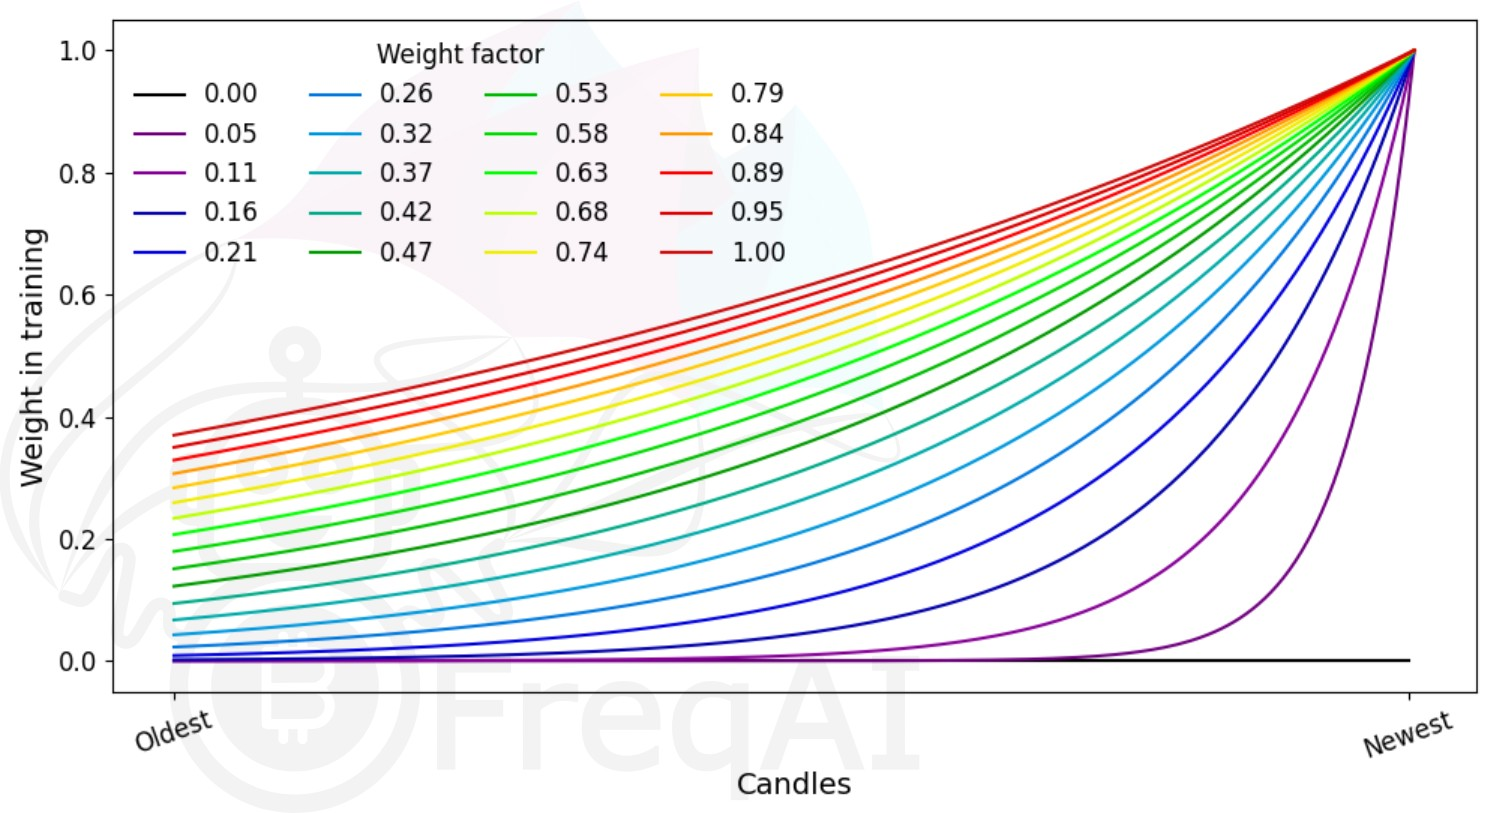
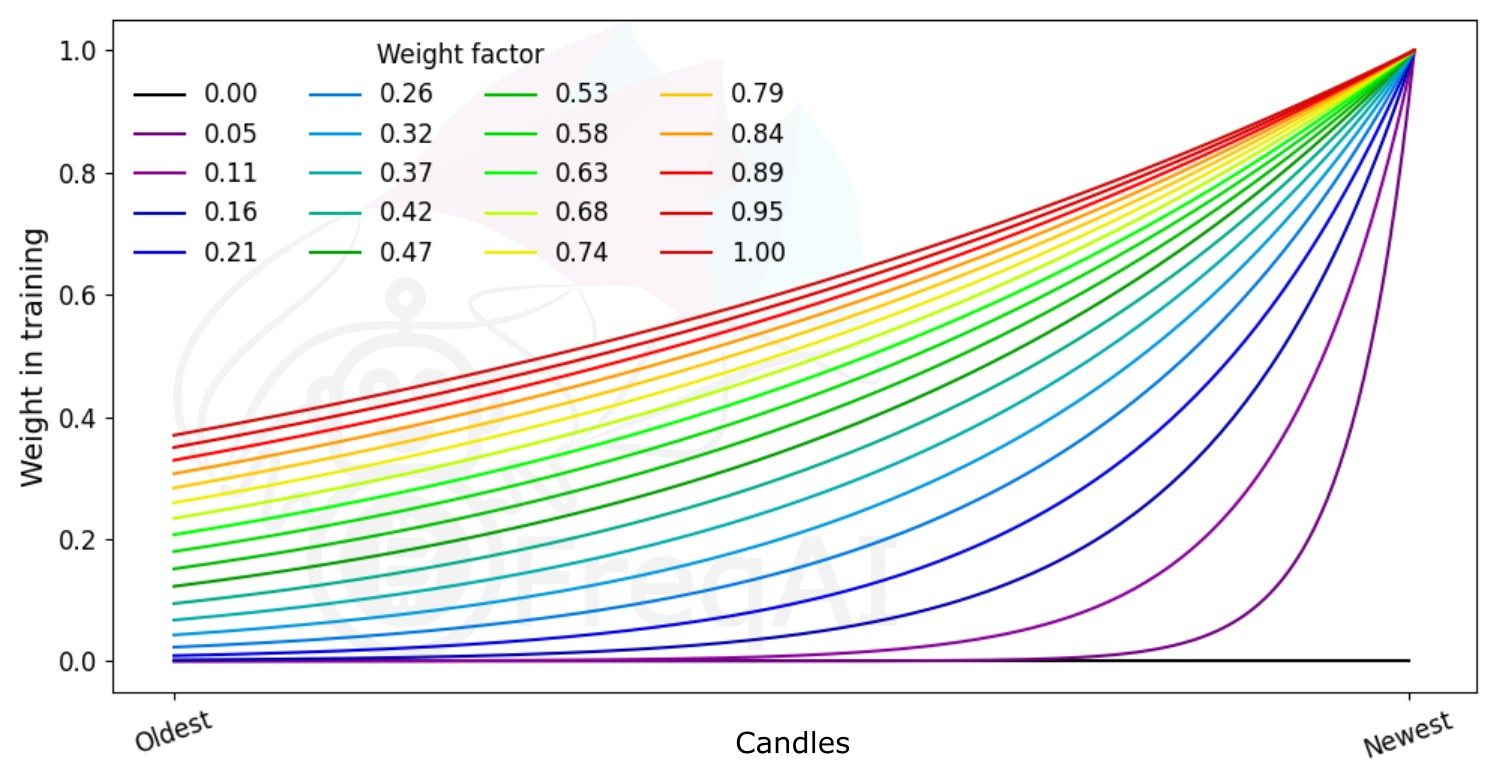
Update+correct descriptions and figure (#7323)

diff --git a/docs/freqai.md b/docs/freqai.md
@@ -112,15 +112,15 @@ Mandatory parameters are marked as **Required**, which means that they are requi
 | `DI_threshold` | Activates the Dissimilarity Index for outlier detection when > 0. See details about how it works [here](#removing-outliers-with-the-dissimilarity-index). <br> **Datatype:** Positive float (typically < 1).
 | `use_SVM_to_remove_outliers` | Train a support vector machine to detect and remove outliers from the training data set, as well as from incoming data points. See details about how it works [here](#removing-outliers-using-a-support-vector-machine-svm). <br> **Datatype:** Boolean.
 | `svm_params` | All parameters available in Sklearn's `SGDOneClassSVM()`. See details about some select parameters [here](#removing-outliers-using-a-support-vector-machine-svm). <br> **Datatype:** Dictionary.
-| `use_DBSCAN_to_remove_outliers` | Cluster data using DBSCAN to identify and remove outliers from training and prediction data. See details about how it works [here](#removing-outliers-with-dbscan). <br> **Datatype:** Boolean.
-| `outlier_protection_percentage` | If more than `outlier_protection_percentage` fraction of points are removed as outliers, FreqAI will log a warning message and ignore outlier detection while keeping the original dataset intact. <br> **Datatype:** float. Default: `30`
-| `reverse_train_test_order` | If true, FreqAI will train on the latest data split and test on historical split of the data. This allows the model to be trained up to the most recent data point, while avoiding overfitting. However, users should be careful to understand unorthodox nature of this parameter before employing it. <br> **Datatype:** bool. Default: False
+| `use_DBSCAN_to_remove_outliers` | Cluster data using DBSCAN to identify and remove outliers from training and prediction data. See details about how it works [here](#removing-outliers-with-dbscan). <br> **Datatype:** Boolean. 
+| `outlier_protection_percentage` | If more than `outlier_protection_percentage` % of points are detected as outliers by the SVM or DBSCAN, FreqAI will log a warning message and ignore outlier detection while keeping the original dataset intact. If the outlier protection is triggered, no predictions will be made based on the training data. <br> **Datatype:** Float. Default: `30`
+| `reverse_train_test_order` | If true, FreqAI will train on the latest data split and test on historical split of the data. This allows the model to be trained up to the most recent data point, while avoiding overfitting. However, users should be careful to understand unorthodox nature of this parameter before employing it. <br> **Datatype:** Boolean. Default: False
 |  |  **Data split parameters**
 | `data_split_parameters` | Include any additional parameters available from Scikit-learn `test_train_split()`, which are shown [here](https://scikit-learn.org/stable/modules/generated/sklearn.model_selection.train_test_split.html) (external website). <br> **Datatype:** Dictionary.
 | `test_size` | Fraction of data that should be used for testing instead of training. <br> **Datatype:** Positive float < 1.
-| `shuffle` | Shuffle the training data points during training. Typically, for time-series forecasting, this is set to `False`. <br>
+| `shuffle` | Shuffle the training data points during training. Typically, for time-series forecasting, this is set to `False`. <br> **Datatype:** Boolean.
 |  |  **Model training parameters**
-| `model_training_parameters` | A flexible dictionary that includes all parameters available by the user selected model library. For example, if the user uses `LightGBMRegressor`, this dictionary can contain any parameter available by the `LightGBMRegressor` [here](https://lightgbm.readthedocs.io/en/latest/pythonapi/lightgbm.LGBMRegressor.html) (external website). If the user selects a different model, this dictionary can contain any parameter from that model.  <br> **Datatype:** Dictionary.**Datatype:** Boolean.
+| `model_training_parameters` | A flexible dictionary that includes all parameters available by the user selected model library. For example, if the user uses `LightGBMRegressor`, this dictionary can contain any parameter available by the `LightGBMRegressor` [here](https://lightgbm.readthedocs.io/en/latest/pythonapi/lightgbm.LGBMRegressor.html) (external website). If the user selects a different model, this dictionary can contain any parameter from that model.  <br> **Datatype:** Dictionary.
 | `n_estimators` | The number of boosted trees to fit in regression. <br> **Datatype:** Integer.
 | `learning_rate` | Boosting learning rate during regression. <br> **Datatype:** Float.
 | `n_jobs`, `thread_count`, `task_type` | Set the number of threads for parallel processing and the `task_type` (`gpu` or `cpu`). Different model libraries use different parameter names. <br> **Datatype:** Float.
@@ -738,7 +738,7 @@ Given a number of data points $N$, and a distance $\varepsilon$, DBSCAN clusters
 
 ![dbscan](assets/freqai_dbscan.jpg)
 
-FreqAI uses `sklearn.cluster.DBSCAN` (details are available on scikit-learn's webpage [here](#https://scikit-learn.org/stable/modules/generated/sklearn.cluster.DBSCAN.html)) with `min_samples` ($N$) taken as double the no. of user-defined features, and `eps` ($\varepsilon$) taken as the longest distance in the *k-distance graph* computed from the nearest neighbors in the pairwise distances of all data points in the feature set.
+FreqAI uses `sklearn.cluster.DBSCAN` (details are available on scikit-learn's webpage [here](#https://scikit-learn.org/stable/modules/generated/sklearn.cluster.DBSCAN.html)) with `min_samples` ($N$) taken as 1/4 of the no. of time points in the feature set, and `eps` ($\varepsilon$) taken as the elbow point in the *k-distance graph* computed from the nearest neighbors in the pairwise distances of all data points in the feature set.
 
 ## Additional information
 
@@ -763,5 +763,5 @@ Code review, software architecture brainstorming:
 @xmatthias
 
 Beta testing and bug reporting:
-@bloodhunter4rc, Salah Lamkadem @ikonx, @ken11o2, @longyu, @paranoidandy, @smidelis, @smarm
+@bloodhunter4rc, Salah Lamkadem @ikonx, @ken11o2, @longyu, @paranoidandy, @smidelis, @smarm,
 Juha Nykänen @suikula, Wagner Costa @wagnercosta